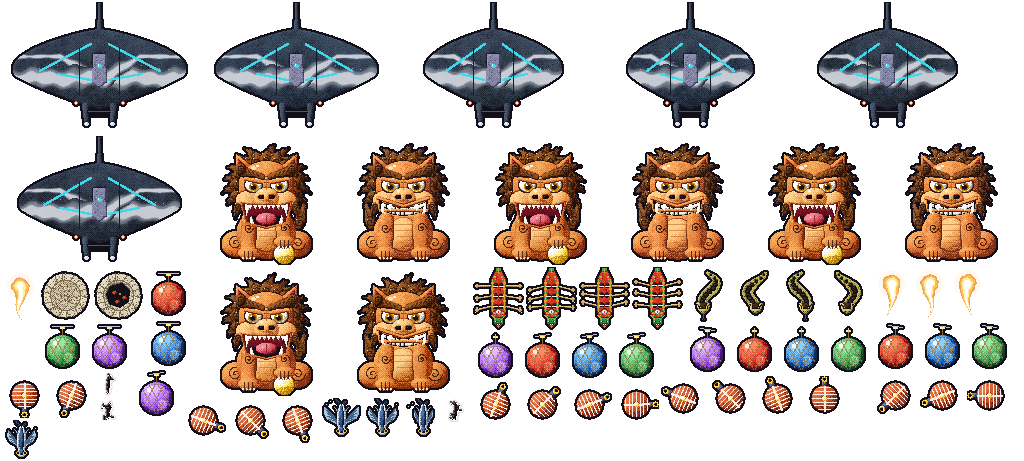
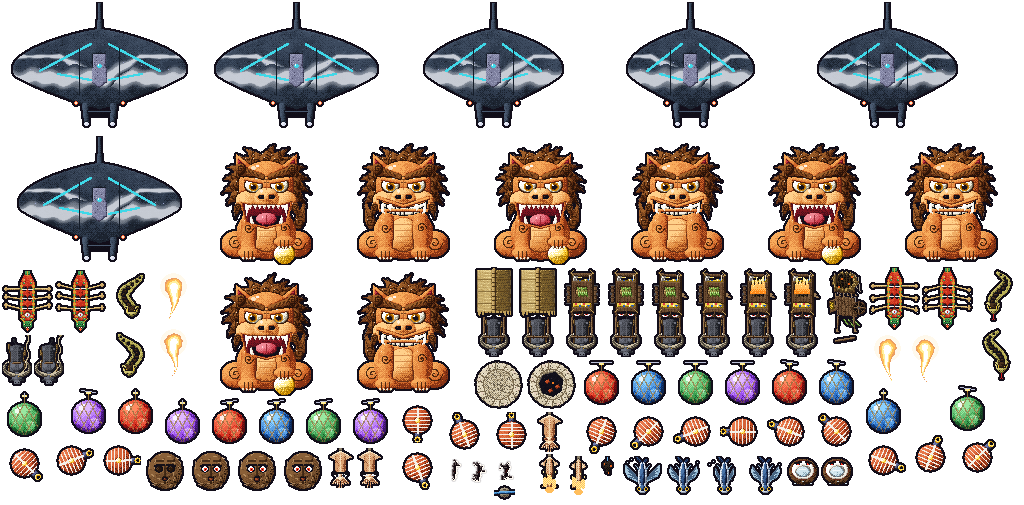
Stronger waves, steps 2-5 for Okinawa: into the game. The designs in Okinawa's atlas, its skin (the blue fishing rope, the coconut's knock). A cart's look may now have a beast pulling it that is no yokai (cart.runner): when the cart goes down it breaks free and runs on along the cart's way, then fro

diff --git a/src/game/enemies/chainSplitCart.js b/src/game/enemies/chainSplitCart.js
@@ -10,7 +10,8 @@
 //           from its wheels. It breaks up as it is hit: the blind torn off (it sees, and fires sooner), a wheel gone
 //           (it limps), the roof on fire; its wreck stays on the street, and it leaves a power-up behind.
 // Their looks are a skin's `chain`, `split` and `cart` (skins.js); their tuning CHAIN, SPLIT, CART (config.js). A look may
-// change the colours and sounds: chain { rope, char, light, text }, split { sound }, cart { debris, light }.
+// change the colours and sounds: chain { rope, char, light, text }, split { sound }, cart { debris, light }. A cart's
+// look may have a beast pulling it that is no yokai (cart.runner): when the cart goes down it breaks free and runs off.
 import { CART, CHAIN, DEPTH, SPLIT, SPLIT_ONE, VIEW } from '../../config.js';
 import { volley } from '../../difficulty.js';
 import { slow, DOWN, TAU, EXTRAS } from './shared.js';
@@ -247,7 +248,7 @@ export const chainSplitCart = {
     const horiz = typeof w.dir === 'number';
     const x = horiz ? (w.dir > 0 ? -16 : VIEW.width + 16) : w.x;
     const y = horiz ? w.y : -20;
-    const e = this.pool.spawn(`${look.anim}0_0`, x, y, { ...base, horiz, dir: horiz ? w.dir : w.up ? -1 : 1, stop: w.stop ?? null, docked: false, wreck: look.wreck, timer: 1.4, cartStage: 0 });
+    const e = this.pool.spawn(`${look.anim}0_0`, x, y, { ...base, horiz, dir: horiz ? w.dir : w.up ? -1 : 1, stop: w.stop ?? null, docked: false, wreck: look.wreck, timer: 1.4, cartStage: 0, flee: w.flee ?? null });
     e.u = s.parallax.stripU(y);
     e.look = look;
     e.play(`${look.anim}0`);
@@ -311,9 +312,48 @@ export const chainSplitCart = {
     s.cameras.main.shake(80, 0.002);
   },
 
-  /** The cart down: it leaves a power-up on the street. */
+  /** The cart down: it leaves a power-up on the street; the beast pulling it (if any) breaks free and runs off. */
   cartDown(e) {
     const c = ['red', 'blue', 'green'][Math.floor(Math.random() * 3)];
     this.scene.spawnPickup(c, e.x, e.y, -40);
+    const R = e.look?.runner;
+    if (!R) return;
+    // where it stood in the shafts, ahead of the cart; on along the cart's way, at a run
+    const [fx, fu] = e.horiz ? [e.dir, 0] : [0, -e.dir];
+    const r = this.runners.spawn(`${R.anim}_0`, e.x + fx * R.ahead, e.y, { u: e.u + fu * R.ahead, vx: fx * R.speed, vu: fu * R.speed, turn: e.flee });
+    r.play(R.anim);
+    this.scene.sfx.creak?.();
+  },
+
+  /**
+   * The beasts run off: along the cart's way, then (the wave's `flee`: [[x, u], ...]) from one point of their way
+   * out to the next, along the lanes and paths there, and on past the last one off the screen.
+   */
+  runAway(dt) {
+    const s = this.scene;
+    for (const r of this.runners.live) {
+      const v = Math.hypot(r.vx, r.vu);
+      const to = r.turn?.[0];
+      if (to) {
+        const [dx, du] = [to[0] - r.x, to[1] - r.u];
+        const d = Math.hypot(dx, du);
+        if (d < v * dt) {
+          r.x = to[0];
+          r.u = to[1];
+          r.turn = r.turn.length > 1 ? r.turn.slice(1) : null;
+          if (r.turn) {
+            const [nx, nu] = [r.turn[0][0] - r.x, r.turn[0][1] - r.u];
+            const n = Math.hypot(nx, nu) || 1;
+            [r.vx, r.vu] = [(nx / n) * v, (nu / n) * v];
+          }
+        } else [r.vx, r.vu] = [(dx / d) * v, (du / d) * v];
+      }
+      r.x += r.vx * dt;
+      r.u += r.vu * dt;
+      r.setRotation(Math.atan2(-r.vx, -r.vu)); // (it is drawn running down the screen)
+      r.y = s.parallax.screenY(r.u);
+      if (r.y > s.H + 30 || r.y < -40 || r.x < -30 || r.x > VIEW.width + 30) this.runners.kill(r);
+    }
+    this.runners.sweep();
   },
 };

diff --git a/src/game/enemyArt.js b/src/game/enemyArt.js
@@ -149,7 +149,8 @@ export const CITY_ANIMS = {
   // the shared behaviours' looks (enemies/chainSplitCart.js): Onomichi's hassaku and ferry, Kyoto's shells and float
   o_hassaku: [four('o_hassaku'), 5], o_hassaku_one: [['o_hassaku_one_0', 'o_hassaku_one_1'], 6],
   ky_kai: [four('ky_kai'), 4], ky_kai_one: [['ky_kai_one_0', 'ky_kai_one_1'], 6],
-  ...Object.fromEntries([0, 1, 2, 3].flatMap((st) => [[`o_ferry_${st}`, [[`o_ferry_${st}_0`, `o_ferry_${st}_1`], 4]], [`ky_hoko_${st}`, [[`ky_hoko_${st}_0`, `ky_hoko_${st}_1`], 6]]])),
+  ok_yashi: [four('ok_yashi'), 4], ok_yashi_one: [['ok_yashi_one_0', 'ok_yashi_one_1'], 6], ok_gyu_run: [['ok_gyu_run_0', 'ok_gyu_run_1'], 8],
+  ...Object.fromEntries([0, 1, 2, 3].flatMap((st) => [[`o_ferry_${st}`, [[`o_ferry_${st}_0`, `o_ferry_${st}_1`], 4]], [`ky_hoko_${st}`, [[`ky_hoko_${st}_0`, `ky_hoko_${st}_1`], 6]], [`ok_gyu_${st}`, [[`ok_gyu_${st}_0`, `ok_gyu_${st}_1`], 3]]])),
   // Fukuoka
   f_tobiume: [four('f_tobiume'), 12], f_goma: [four('f_goma'), 16], f_fugu: [four('f_fugu'), 3],
   f_mentaiko: [four('f_mentaiko'), 5], f_mentaiko_one: [['f_mentaiko_one_0', 'f_mentaiko_one_1'], 6],

diff --git a/src/game/skins.js b/src/game/skins.js
@@ -47,6 +47,10 @@ export const SKINS = {
     carrier: { frame: 'glass_{c}_0', anim: 'glass_{c}' },
     heavy: { frame: 'manta_0', anim: 'manta' },
     turret: { base: 'coral_base', head: 'coral_head_', wreck: 'coral_wreck' },
+    // surume on a blue fishing rope, coconuts, Bise's water-buffalo cart (its buffalo runs off: enemies/chainSplitCart.js)
+    chain: { frame: 'ok_ika_0', eye: 'ok_ika_eye_', lit: 'ok_ika_lit_', burnt: 'ok_ika_burnt', pole: 'ok_pole', rope: 0x2a70b0 },
+    split: { frame: 'ok_yashi_0', anim: 'ok_yashi', one: 'ok_yashi_one_0', oneAnim: 'ok_yashi_one', sound: 'crock' },
+    cart: { anim: 'ok_gyu_', wreck: 'ok_gyu_wreck', debris: 0x9a7a40, runner: { anim: 'ok_gyu_run', speed: 40, ahead: 7 } },
   },
   sapporo: {
     trap: trap('sapporo', 'snow', 10, { kind: 'fan', n: 5, speed: 'normal', arc: 0.8 }, 3.8), // a snow cannon (enemies/traps.js)

diff --git a/src/game/Enemies.js b/src/game/Enemies.js
@@ -57,6 +57,7 @@ export class Enemies {
     this.pool = new Pool(scene, DEPTH.air, enemyTexture);
     this.heads = new Pool(scene, DEPTH.ground + 0.2, enemyTexture);
     this.wrecks = new Pool(scene, DEPTH.ground, enemyTexture);
+    this.runners = new Pool(scene, DEPTH.ground + 0.1, enemyTexture); // a cart's beast run off when it breaks (chainSplitCart.js)
     this.segPool = new Pool(scene, DEPTH.air - 0.12, enemyTexture); // the octopus's tentacle segments
     this.tailPool = new Pool(scene, DEPTH.air - 0.13, enemyTexture); // Kyūbi's tails
     this.heavy = null;
@@ -1137,6 +1138,7 @@ export class Enemies {
       if (w.y > H + 20) this.wrecks.kill(w);
     }
     this.wrecks.sweep();
+    this.runAway(dt);
     b.owner = null; // (what fires after this is no small enemy's)
   }
 

diff --git a/docs/plan-silniejsze-fale.md b/docs/plan-silniejsze-fale.md
@@ -131,4 +131,5 @@ Pierwszy krok, wspólny: przeniesienie zachowań z `fukuoka.js` do wspólnego mo
 | 2026-11-19 | Claude | 0 | Zachowania przeniesione do `src/game/enemies/chainSplitCart.js` (bez zmian w działaniu; skórka może zmienić kolory liny, światło, kolor punktów, dźwięk pary, odłamki i ogień wozu). Bot w Fukuoce jak przedtem. | |
 | 2026-11-19 | Claude | 1 (Onomichi, Kioto) | Projekty grafiki do akceptacji: `tools/art/onomichi/newfoes.mjs` (flagi tairyō-bata z leszczem nad falą, hassaku i jego połówki, prom z mostkiem-oczami, autami na pokładzie i rampą-szczęką, wrak nisko w wodzie) i `tools/art/kyoto/newfoes.mjs` (omikuji na słomianej linie między cynobrowymi słupkami z lisim ogniem, muszla kai-awase z oczami w szparze i jej złocone połówki z sosną i śliwą, yamaboko z drzewcem, sakaki, halabardą, gobelinami i twarzą demona, wrak przewrócony). Jeszcze nie w atlasach ani w grze. | Zaakceptowane 2026-11-19. Prom ma 4 stopnie rozpadu, platforma też. |
 | 2026-11-19 | Claude | 2-5 (Onomichi, Kioto) | Grafika w atlasach `bg/stage11` i `bg/stage1`, skórki `chain`/`split`/`cart` w `skins.js` (Kioto: słomiana lina, lisi ogień niebiesko-biały, stuk muszli zamiast mlaśnięcia). Wóz umie teraz płynąć w górę mapy i zatrzymać się (`stop`), więc prom w Onomichi dobija do nabrzeża miasta i tam zostaje. **Onomichi:** 8 lin z flagami nad drogą rowerową i nadbrzeżną (słupki na lądzie, poza drogami i terenem świątyń), 13 par hassaku, 4 promy (jeden płynie cieśniną przy Ozaki, trzy przepływają z Mukaishimy i dobijają do nabrzeża); popcorn 42%. **Kioto:** 3 liny z omikuji (nad Hanamikōji i sandō Fushimi Inari), 12 par muszli, 2 platformy yamaboko (Hanamikōji, sandō); popcorn 56%. Bot (4 bronie, moc 4), trafienia przed bossem: Onomichi 5 → 15 na normalnym (0-5 na przebieg), 3 → 8 na łatwym; Kioto 14 → 17 i 10 → 11. Testy `onomichiWaves` i `kyotoWaves`. | W Kioto najpierw było 7 lin i 3 platformy: trafienia przed bossem 14 → 29. Zdjęte 2 liny z otwarcia, a wóz na Gojō-zace i 2 liny przy Sannenzace wypadały w walce z tanuki, który nie wstrzymuje przewijania. Kioto zostaje lekkie, bo jest pierwsze. Do zrobienia przez człowieka: przelot bez trybu boga. |
-| 2026-11-19 | Claude | 1 (Okinawa) | Projekty grafiki do akceptacji, `tools/art/okinawa/newfoes.mjs`: suszone kałamarnice (surume) spięte klamerką na niebieskiej linie rybackiej między spłowiałymi słupkami; obudzone otwierają oczy (strzelają), przypiekana zwija się i brązowieje, zostaje czarny skręcony strzęp. Kokos z trzema „oczkami” jako twarzą, rozbłyskującą na czerwono; jego połówki z białym miąższem, wodą w środku i parą oczu. Wóz z bawołem z Bise: szary bawół z rogami zagiętymi do tyłu, mosiężnym dzwonkiem i jarzmem, dwuspadowy daszek z trzciny, spod frędzli patrzą oczy; rozpad: zerwany daszek (ławki z poduszkami bingata, sanshin, kosz trzciny cukrowej, deska z czerwonymi oczami), odpadłe koło, płonący kosz; wrak zawalony; bawół osobno, uciekający z zerwaną liną. Jeszcze nie w atlasie ani w grze. | Sznur na plaży między palmami przy barze i nad ścieżką do bungalowów: przystań na Zamami (u 236) jest na samym początku etapu, przed pierwszą falą. Wóz na uliczce z Bise do drogi nadbrzeżnej (u 1160–1354), poza trasą malowanego wozu w wiosce. Nowe w zachowaniu: bawół odczepia się przy rozbiciu wozu i ucieka uliczką, na drodze nadbrzeżnej skręca. |
+| 2026-11-19 | Claude | 1 (Okinawa) | Projekty grafiki do akceptacji, `tools/art/okinawa/newfoes.mjs`: suszone kałamarnice (surume) spięte klamerką na niebieskiej linie rybackiej między spłowiałymi słupkami; obudzone otwierają oczy (strzelają), przypiekana zwija się i brązowieje, zostaje czarny skręcony strzęp. Kokos z trzema „oczkami” jako twarzą, rozbłyskującą na czerwono; jego połówki z białym miąższem, wodą w środku i parą oczu. Wóz z bawołem z Bise: szary bawół z rogami zagiętymi do tyłu, mosiężnym dzwonkiem i jarzmem, dwuspadowy daszek z trzciny, spod frędzli patrzą oczy; rozpad: zerwany daszek (ławki z poduszkami bingata, sanshin, kosz trzciny cukrowej, deska z czerwonymi oczami), odpadłe koło, płonący kosz; wrak zawalony; bawół osobno, uciekający z zerwaną liną. Jeszcze nie w atlasie ani w grze. | Sznur na plaży między palmami przy barze i nad ścieżką do bungalowów: przystań na Zamami (u 236) jest na samym początku etapu, przed pierwszą falą. Wóz na uliczce z Bise do drogi nadbrzeżnej (u 1160–1354), poza trasą malowanego wozu w wiosce. Nowe w zachowaniu: bawół odczepia się przy rozbiciu wozu i ucieka uliczką, na drodze nadbrzeżnej skręca. Zaakceptowane 2026-11-19. |
+| 2026-11-19 | Claude | 2-5 (Okinawa) | Grafika w atlasie `bg/stage2`, skórka (niebieska lina rybacka, stuk kokosa). Nowe w zachowaniu wozu: `cart.runner` w skórce i `flee` w fali (punkty trasy); po rozbiciu wozu bawół biegnie dalej uliczką, a potem od punktu do punktu. 5 lin z kałamarnicami: przy barze na plaży, dwie nad ścieżką do bungalowów, nad podjazdem hotelu, przy domu latarnika nad ścieżką do pomostu. 13 kokosów w miejscu fal popcornu, 1 wóz na uliczce z Bise do drogi nadbrzeżnej; bawół przecina drogę i ucieka ścieżką na plażę (na drodze jest ruch). Popcorn 45%. Bot (4 bronie, moc 4), trafienia przed bossem: 18 → 18 na normalnym, 6 → 10 na łatwym. Test `okinawaWaves`. | Drugi wóz nie ma tu dobrej drogi: poprzeczne uliczki Bise przecinają trasę malowanego wozu, a most Kōri i droga na wyspie wypadają przy mancie, która nie wstrzymuje przewijania. Do zrobienia przez człowieka: przelot bez trybu boga. |
